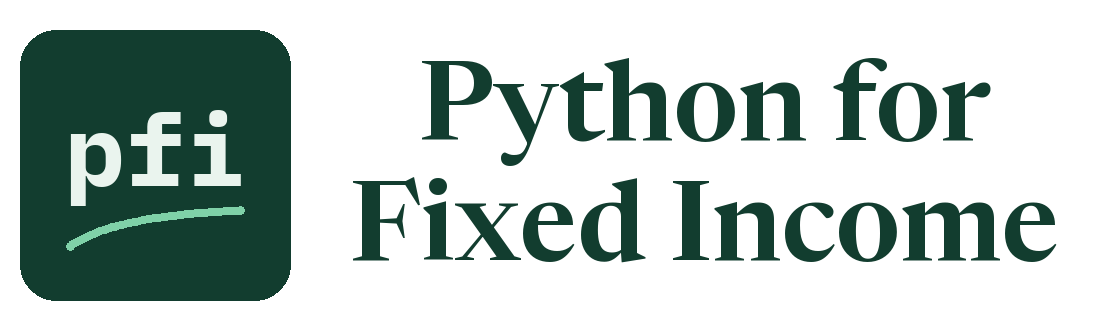
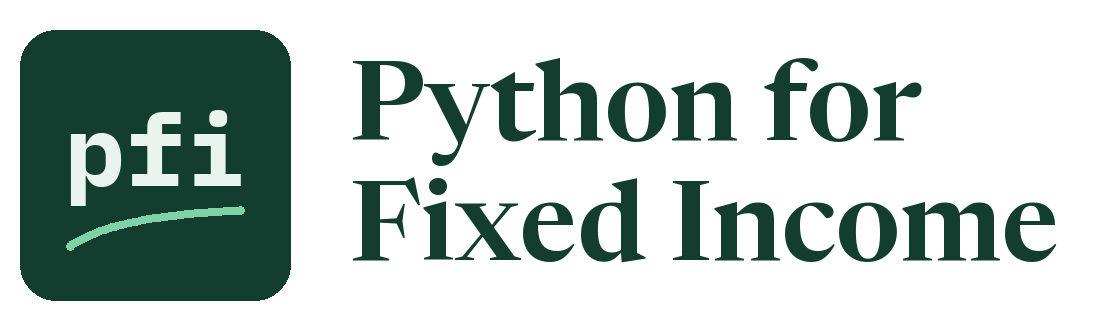
README wordmark: the two lines left-aligned beside the badge
Claude-Session: https://claude.ai/code/session_01GG8KyuE75UbxKdPGpPR6nL

Changed region(s): [[0.3091, 0.1515, 0.8964, 0.5152]]

diff --git a/tools/make_wordmark.py b/tools/make_wordmark.py
@@ -27,12 +27,10 @@ def draw(badge_fill: str, badge_text: str, curve: str, name_fill: str) -> Image.
     for end in (line[0], line[-1]):
         canvas.ellipse((end[0] - 4, end[1] - 4, end[0] + 4, end[1] + 4), fill=curve)
 
-    # Two lines, centred on one axis, the block centred on the badge's middle (y = 165); Jeff, 2026-10-12
+    # Two lines, left-aligned beside the badge, the block centred on the badge's middle (y = 165); Jeff, 2026-10-12
     font = serif(110, 600)
-    lines = ("Python for", "Fixed Income")
-    axis = 350 + max(canvas.textlength(text, font=font) for text in lines) / 2
-    canvas.text((axis, 140), lines[0], font=font, fill=name_fill, anchor="ms")
-    canvas.text((axis, 260), lines[1], font=font, fill=name_fill, anchor="ms")
+    canvas.text((350, 140), "Python for", font=font, fill=name_fill, anchor="ls")
+    canvas.text((350, 260), "Fixed Income", font=font, fill=name_fill, anchor="ls")
     return image
 
 
